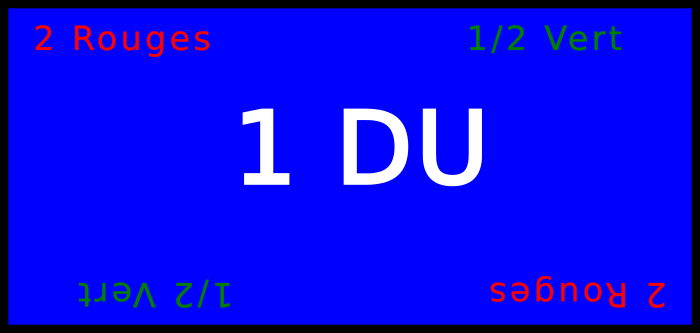
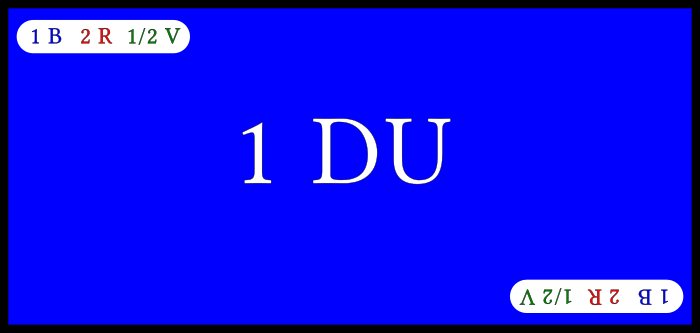
Geconomicus 1.6 better banknotes design and DL 10cm x 21 cm print Signed-off-by: galuel <galuel@glibre.org>

diff --git a/README.md b/README.md
@@ -17,7 +17,7 @@ You will find, and you can contribute in:
 XMPP chatroom to join Ğeconomicus developpers online: ğeconomicus@muc.jappix.com
 
 ### Version
-Ğeconomicus current version is 1.5
+Ğeconomicus current version is 1.6
 
 ### Generation
 To change model of cards (front and back) and to generate all cards:
